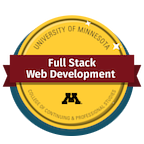
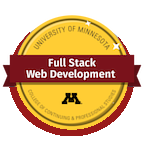
Changed color theme to red.

diff --git a/src/components/ContactForm.jsx b/src/components/ContactForm.jsx
@@ -118,7 +118,7 @@ export default function ContactForm() {
           </MDBRow>
           <MDBBtn className='mt-4 ms-2'
                   color='dark'
-                  style={{border:'2px solid #97caf5'}}
+                  style={{border:'2px solid #991a1a'}}
                   disabled={!details.name || !details.email || !details.message}
                   onClick={handleSendEmail}
           >
@@ -138,12 +138,12 @@ export default function ContactForm() {
         <MDBModal show={showModal} onHide={handleCloseModal}>
           <MDBModalDialog>
             <MDBModalContent>
-              <MDBModalHeader style={{backgroundColor:'#145369', color:'white'}} className='d-flex justify-content-center'>Invalid Email</MDBModalHeader>
-              <MDBModalBody style={{backgroundColor:'#145369', color:'white'}} className='d-flex justify-content-center'>
+              <MDBModalHeader style={{backgroundColor:'#991a1a', color:'white'}} className='d-flex justify-content-center'>Invalid Email</MDBModalHeader>
+              <MDBModalBody style={{backgroundColor:'#661313', color:'white'}} className='d-flex justify-content-center'>
                 <em>Please enter a valid email address.</em>
               </MDBModalBody>
-              <MDBModalFooter style={{backgroundColor:'#145369', color:'white'}} className='d-flex justify-content-center'>
-                <MDBBtn color='secondary' onClick={handleCloseModal}>Dismiss</MDBBtn>
+              <MDBModalFooter style={{backgroundColor:'#661313', color:'white'}} className='d-flex justify-content-center'>
+                <MDBBtn color='danger' onClick={handleCloseModal}>Dismiss</MDBBtn>
               </MDBModalFooter>
             </MDBModalContent>
           </MDBModalDialog>

diff --git a/src/App.css b/src/App.css
@@ -5,6 +5,10 @@
   --light-blue: #97caf5;
   --dark-blue: #073d5c;
   --light-gray: #292929;
+  --green: #1a9922;
+  --red: #991a1a;
+  --light-red: #ed4e4e;
+  --dark-red: #661313;
 }
 /****************************************************/
 
@@ -52,23 +56,20 @@ label {
 #navbar {
   position: sticky;
   top: 0;
-  background-color: var(--blue);
+  background-color: var(--red);
   z-index: 100;
+  opacity: 80%;
 }
 
 .navbar-link {
-  color: var(--light-blue);
-  margin: 0;
+  color: white;
+  margin: 0; 
   padding: 0;
   border-radius: 0.3em;
 }
 
 .navbar-link:hover {
-  color: #c5e7f3;
-}
-
-.navbar-link:hover {
-  background-color: #2c2c2c;
+  color: yellow;
 }
 
 .nav-project-link-alt-bg {
@@ -84,7 +85,7 @@ label {
 }
 
 .nav-project-link a:hover {
-  color: #8ad7f3;
+  color: yellow;
 }
 /****************************************************/
 
@@ -284,14 +285,14 @@ label {
 
 #image-banner {
   width: 100%;
-  height: 6em;
-  background-image: linear-gradient(to top, #051937, #044268, #007199, #00a3c6, #0ed8eb);
+  height: 8em;
+  background-image: linear-gradient(to top, var(--dark-red), var(--red), var(--light-red ));
 }
 
 #image-banner-reversed {
   width: 100%;
-  height: 6em;
-  background-image: linear-gradient(to bottom, #051937, #044268, #007199, #00a3c6, #0ed8eb);
+  height: 8em;
+  background-image: linear-gradient(to bottom, var(--dark-red), var(--red), var(--light-red));
 }
 
 .input-box {

diff --git a/src/components/About.jsx b/src/components/About.jsx
@@ -19,7 +19,7 @@ export default function About() {
           </MDBCol>
           <MDBCol className='mt-5 about-me-bullet-list'>
             <ul style={{minWidth: '15em', maxWidth: '30em', }}>
-              <li><p>I am pursuing a career as a web developer 😃</p></li>
+              <li><p>Welcome to my web development portfolio website 😃<br/> </p></li>
               <li><p>My resume is available &#x2192; <a href='https://docs.google.com/document/d/1sd07dV3R7xevumimU5AJD6_v1yE2rwYursuW1r_Ypqg/edit?usp=sharing' id='resume-link' style={{textDecoration:'underline'}}>here</a><span style={{fontSize: '0.7em', marginLeft:'1em'}}><br/>(Google Docs)</span></p></li>
               <li><p>Through my computer endeavors I've participated in several team-focused development projects, one being a full-stack react application <em style={{ fontSize: "80%" }}>(<a href="https://github.com/johntg96/ThinkSync" style={{ color: 'white' }}>ThinkSync</a>)</em>.</p></li>
             </ul>
